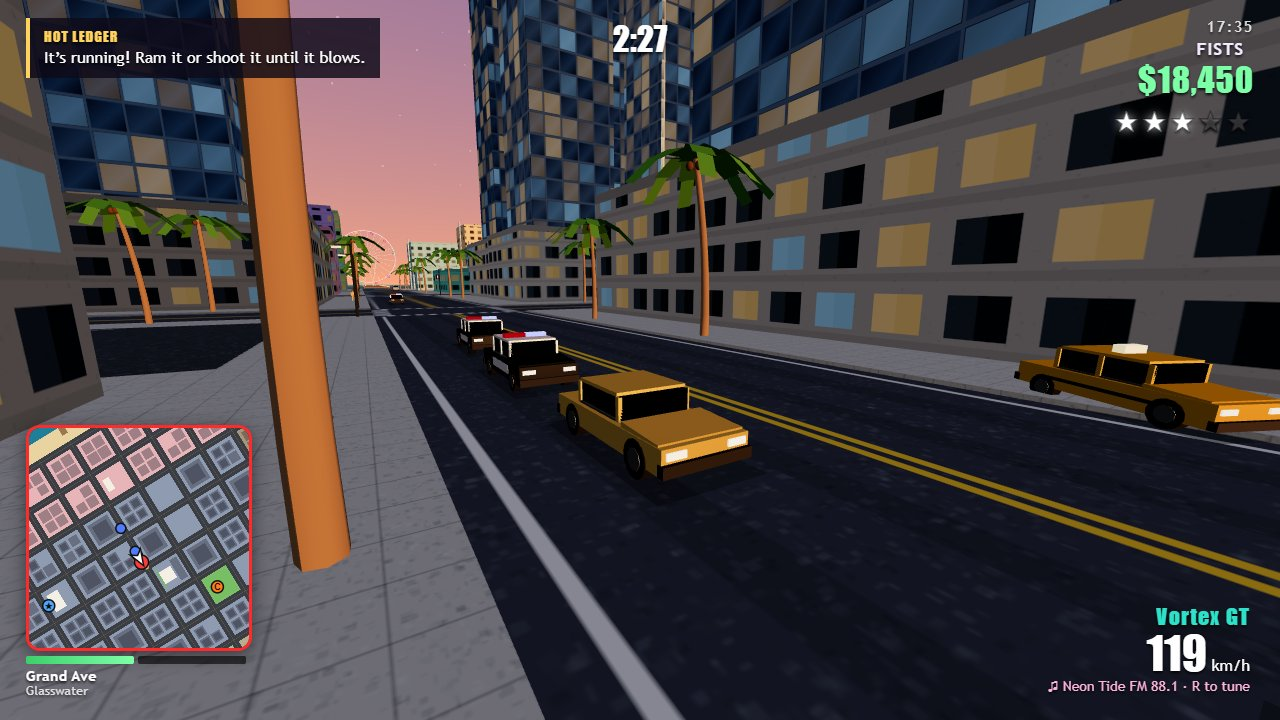
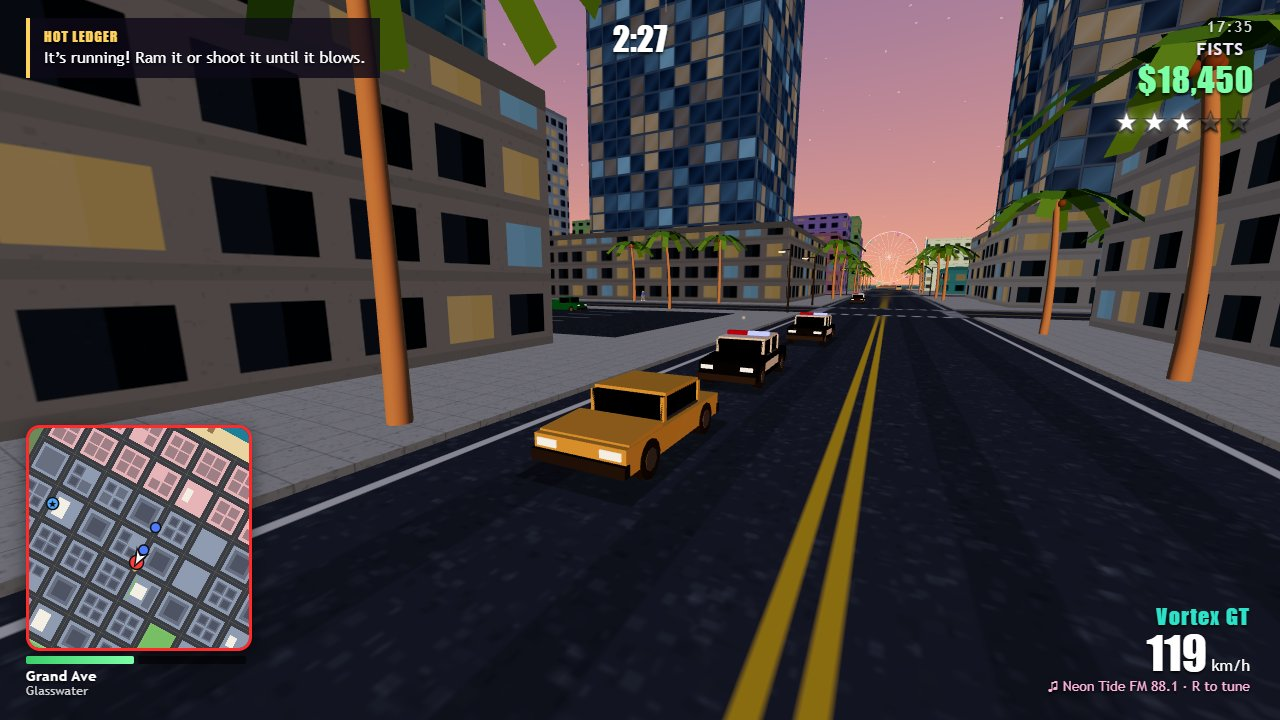
Death camera, cops firing from cars, mission fixes, new screenshots

diff --git a/game/src/story/storyMissions.js b/game/src/story/storyMissions.js
@@ -95,7 +95,7 @@ export const STORY = [
     setup: (g, ctx) => {
       const spot = { x: g.plan.landmarks.safehouse.block.x1 + 10, z: g.plan.landmarks.safehouse.block.z1 + 40 };
       const lot = g.plan.blocks.find((b) => b.bi === 2 && b.bj === 3);
-      ctx.car = g.spawnVehicle('vortex', lot ? lot.x0 - 4 : spot.x, lot ? lot.cz : spot.z, Math.PI / 2, 0xff3b5c);
+      ctx.car = g.spawnVehicle('vortex', lot ? lot.x0 + 8 : spot.x, lot ? lot.cz : spot.z, Math.PI / 2, 0xff3b5c);
       ctx.car.mission = 'twotone';
       ctx.car.persistent = true;
     },
@@ -129,13 +129,13 @@ export const STORY = [
     intro: [['Holt', 'Vega. You have something of mine. Relax, I’m not here to arrest you.'], ['Holt', 'Kane’s cutting me loose. His courier van moves tonight’s cash out of the harbor. Wreck it.'], ['Holt', 'You keep half. I keep my pension. Everybody wins.']],
     setup: (g, ctx) => {
       const b = g.plan.landmarks.garage.block;
-      ctx.van = g.spawnTrafficVehicle('tidewater', b.cx, b.z1 + 8, 'flee', 0xd4af37);
+      ctx.van = g.spawnTrafficVehicle('tidewater', b.cx, b.z1 + 8, 'cruise', 0xd4af37);
       ctx.van.health = ctx.van.def.health = 220;
       ctx.van.mission = 'ledger';
       ctx.van.persistent = true;
     },
     steps: [
-      step.goTo((g) => ({ x: g.plan.landmarks.garage.block.cx, z: g.plan.landmarks.garage.block.z1 + 8 }), 'Find the gold courier van near the harbor.', 45, { vehicle: false }),
+      step.goTo((g) => g.missions.ctx.van?.pos ?? g.player.pos, 'Find the gold courier van near the harbor.', 40),
       { text: 'It’s running! Ram it or shoot it until it blows.', target: (g, ctx) => ctx.van?.pos, update: (g, ctx) => { if (ctx.van.ai) { ctx.van.ai.mode = 'flee'; ctx.van.ai.target = g.player.pos; ctx.van.ai.cruise = 22; } if (!ctx.van.dead) return null; ctx.vanWreck = { x: ctx.van.pos.x + 3, z: ctx.van.pos.z }; return 'done'; }, seconds: 150 },
       step.goTo((g, ctx) => g.missions.ctx.vanWreck ?? g.player.pos, 'Grab the cash bag from the wreck.', 4),
       step.loseCops(),

diff --git a/game/src/systems/police.js b/game/src/systems/police.js
@@ -6,6 +6,7 @@ import { LaneDriver } from '../ai/laneDriver.js';
 import { LOOKS } from '../entities/humanoid.js';
 import { services } from '../core/services.js';
 import { dist2, rng, clamp } from '../util/mathx.js';
+import { WEAPONS } from '../config.js';
 
 const CARS_FOR_LEVEL = [0, 1, 2, 3, 4, 6];
 const CRIMES = {
@@ -104,6 +105,13 @@ export class PoliceSystem {
         if (d < 28 || (d < 90 && services.colliders.lineOfSight(v.pos.x, 1.6, v.pos.z, pp.x, pp.y + 1, pp.z))) seen = true;
         v.ai.target = { x: pp.x, z: pp.z };
         v.sirenOn = true;
+        // From three stars the passenger leans out and fires at the suspect.
+        u.fireCd = (u.fireCd ?? 1.5) - dt;
+        if (this.level >= 3 && u.fireCd <= 0 && d < 35 && services.colliders.lineOfSight(v.pos.x, 1.6, v.pos.z, pp.x, pp.y + 1, pp.z)) {
+          u.fireCd = rng.range(0.6, 1.4);
+          const shooter = { pos: { x: v.pos.x, y: v.pos.y + 0.2, z: v.pos.z }, yaw: Math.atan2(pp.x - v.pos.x, pp.z - v.pos.z), accuracy: 0.3, weapon: 'pistol' };
+          services.game.combat.npcShoot(shooter, player, WEAPONS.pistol, d);
+        }
         // Officers bail out when the suspect is on foot or stopped nearby.
         const stopped = !player.vehicle || player.vehicle.speed < 3;
         if (!u.deployed && stopped && d < 20 && v.speed < 6) this.deploy(u);

diff --git a/game/src/systems/traffic.js b/game/src/systems/traffic.js
@@ -21,13 +21,13 @@ export class TrafficManager {
   spawnCar(x, z, minD, maxD, model = null, mode = 'cruise') {
     const game = services.game;
     const cam = services.camera;
-    for (let tries = 0; tries < 12; tries++) {
+    for (let tries = 0; tries < 30; tries++) {
       const i = rng.int(0, GRID), j = rng.int(0, GRID);
       const p = nodePos(i, j);
       const d = dist2(p.x, p.z, x, z);
       if (d < minD || d > maxD) continue;
       // Prefer junctions behind the camera so cars do not pop into view.
-      if (cam && d < 150) {
+      if (cam && d < 150 && mode !== 'pursuit') {
         const fx = Math.sin(game.cameraRig.yaw), fz = Math.cos(game.cameraRig.yaw);
         if ((p.x - cam.position.x) * fx + (p.z - cam.position.z) * fz > 0) continue;
       }

diff --git a/game/src/core/cameraRig.js b/game/src/core/cameraRig.js
@@ -50,6 +50,13 @@ export class CameraRig {
       wantFov = 64 + clamp(speed * 0.4, 0, 20);
       height = 1.6 + v.def.body * 0.6;
       _target.set(v.pos.x, v.pos.y + height, v.pos.z);
+    } else if (player.dead) {
+      // Death: drift up and around the body.
+      this.mode = 'dead';
+      this.yaw += dt * 0.35;
+      this.pitch = damp(this.pitch, -0.75, 1.5, dt);
+      wantDist = 8; wantShoulder = 0; wantFov = 60;
+      _target.set(player.pos.x, player.pos.y + 0.6, player.pos.z);
     } else {
       this.mode = player.aiming ? 'aim' : 'foot';
       wantDist = player.aiming ? 2.3 : 4.4;

diff --git a/game/src/shots.js b/game/src/shots.js
@@ -125,7 +125,7 @@ function chase(game) {
     drive();
     const rig = game.cameraRig;
     rig.freeLookT = 99;
-    rig.yaw = game.player.vehicle.yaw + Math.PI - 0.55;
+    rig.yaw = game.player.vehicle.yaw + Math.PI + 0.5;
     rig.pitch = -0.17;
     game.police.seen = true;
   });
